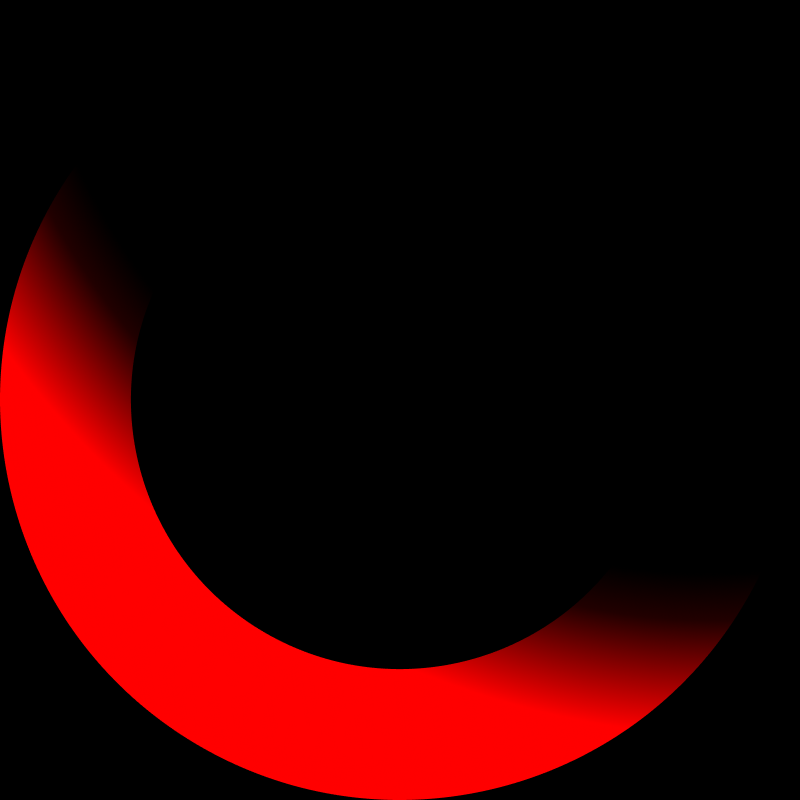
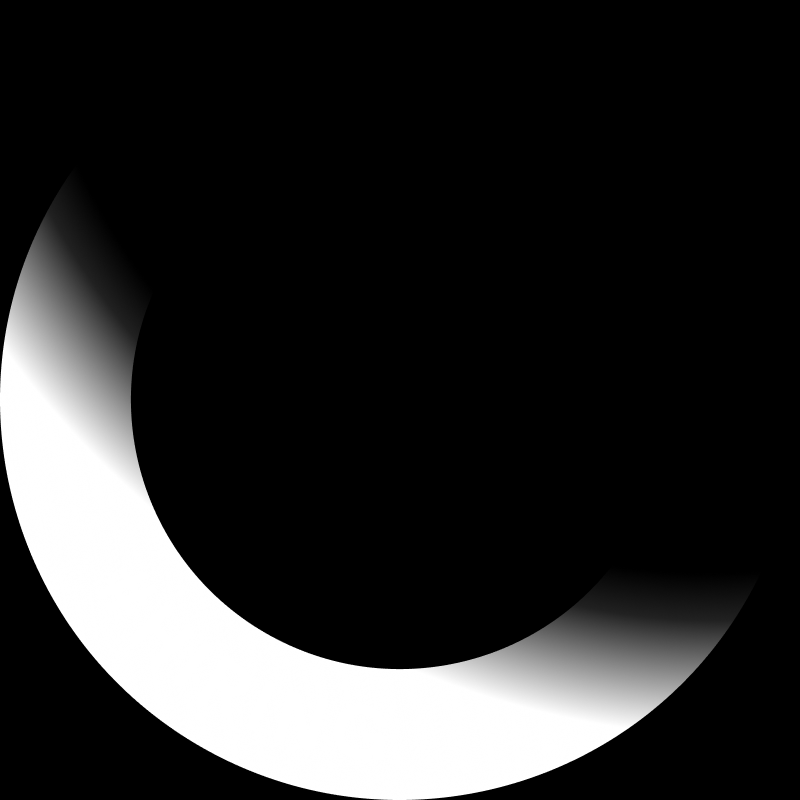
use grayscale image for alpha

Changed region(s): [[0.0, 0.25, 0.9375, 1.0]]

diff --git a/lib/frame.py b/lib/frame.py
@@ -9,17 +9,17 @@ def apply_frame(image: Image.Image, color: tuple[int, int, int]) -> Image.Image:
     """
     Composite a colored frame onto a square image using assets/alpha.png.
 
-    The red channel of alpha.png is treated as the frame's alpha mask:
+    alpha.png is a grayscale image used as the frame's alpha mask:
     255 = fully opaque frame color, 0 = fully transparent (shows original image).
     The image is resized to match alpha.png's dimensions if needed.
     Returns an RGBA image.
     """
-    alpha_img = Image.open(ALPHA_PATH).convert("RGB")
+    alpha_img = Image.open(ALPHA_PATH).convert("L")
     w, h = alpha_img.size
 
     base = image.convert("RGBA").resize((w, h), Image.LANCZOS)
 
-    red_channel = np.array(alpha_img)[:, :, 0]  # shape (h, w), values 0-255
+    red_channel = np.array(alpha_img)  # shape (h, w), values 0-255
 
     # Build the frame layer: solid color with alpha = red channel
     r, g, b = color